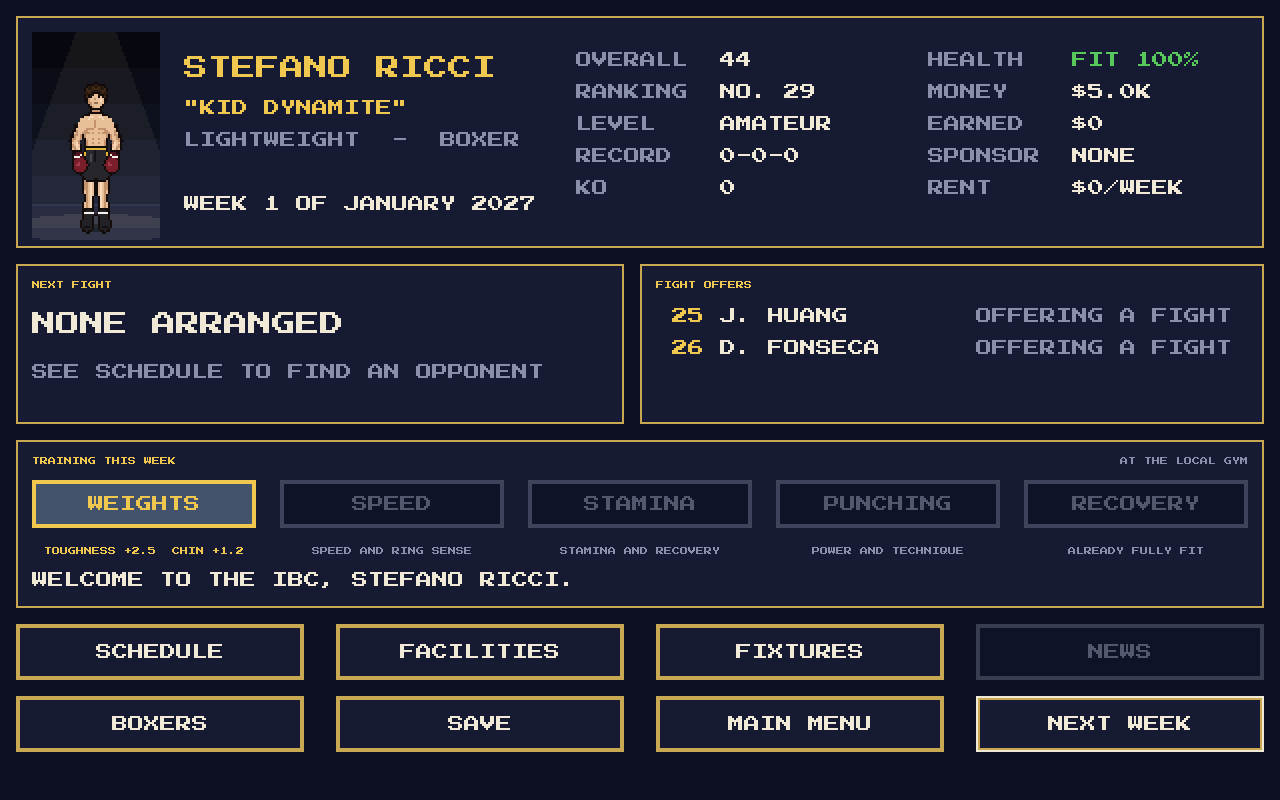
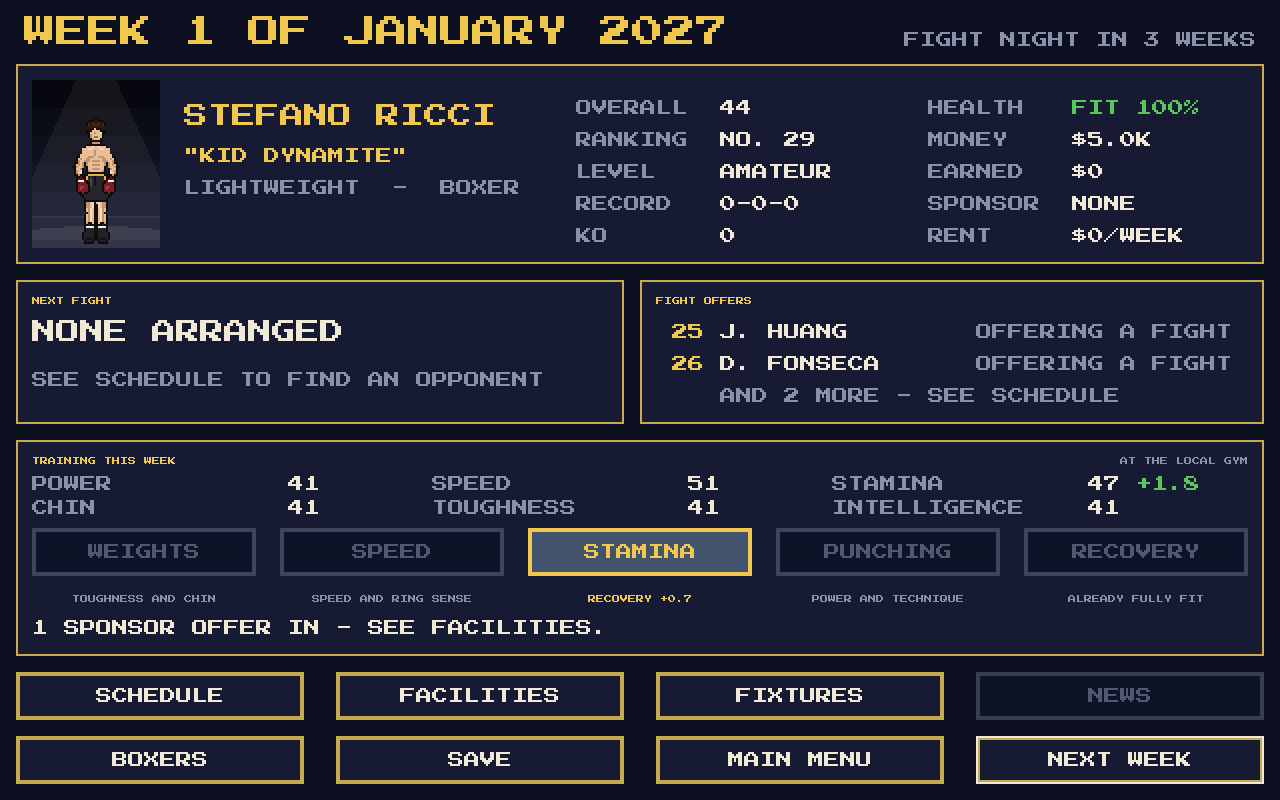
0.1.36: Career page - large date line and the boxer's skills
Claude-Session: https://claude.ai/code/session_01PF6KKrB4uHprcLjw7ppdzy

diff --git a/README.md b/README.md
@@ -458,9 +458,12 @@ the bank. The career is saved straight away, at the end of every month and
 when leaving for the main menu (SAVE saves it any time). Saves live in
 `user://careers/`; **CONTINUE SAVED CAREER** lists them, newest first.
 
-**The career page** shows the boxer and his overall rating, ranking,
-level, record, health, money, earnings, sponsor and the week's rent, his
-next fight, the men offering him a fight, and the latest news. Time moves
+**The career page** has the date across the top in large letters (WEEK 2
+OF JANUARY 2027, with the weeks to fight night on the right, or FIGHT
+NIGHT in the month's last week), then the boxer and his overall rating,
+ranking, level, record, health, money, earnings, sponsor and the week's
+rent, his next fight, the men offering him a fight, his six skills (with
+what this week's training added in green), and the latest news. Time moves
 a **week** at a time (NEXT WEEK), four weeks to a month:
 
 * **Training**: once a week choose WEIGHTS (toughness, some chin), SPEED
@@ -763,6 +766,8 @@ Command-line options read by the game (after `--`):
 | `--manage=<0\|1>`          | A fight scene: the player is in the red (0) or blue (1) corner - orders between rounds, shouts during them                                                                                            |
 | `--train=<0-4>`            | Career screens: the boxer trains that session this week (4 = RECOVERY)                                                                                                                                 |
 | `--offers=<n>`             | Career screens: the first n men he could fight are offering him a fight                                                                                                                                |
+| `--week=<0-3>`             | Career screens: the week of the month (3 = fight night)                                                                                                                                                |
+| `--booked`                 | Career screens: he has a fight booked with the first man he could fight                                                                                                                                |
 | `--career=<path>`          | Load a saved career (e.g. `user://careers/career_1.tres`); a fight scene shows his next fight                                                                                                           |
 | `--wait=<seconds>`         | Real seconds to wait before the shot (e.g. mid read-out)                                                                                                                                               |
 | `--at=<seconds>`           | Earliest real second of round 1 to capture (default 20)                                                                                                                                                |

diff --git a/TODO.md b/TODO.md
@@ -7,8 +7,8 @@ Effort: **XS** under an hour, **S** a few hours, **M** about a day,
 
 | #  | Item | Effort | Notes |
 |----|------|--------|-------|
-| 1  | Show the boxer's skills (power, speed, stamina, chin, strength, intelligence) on the career page | S | The header is full: either a compact skills strip under it or a SKILLS panel, with this week's training gains shown against them. |
-| 2  | Make the current week and month clearer on the career page | XS | Move "WEEK 1 OF JANUARY 2027" to a large line at the top of the page (and show "FIGHT NIGHT" there in the last week). |
+| 1  | ~~Show the boxer's skills (power, speed, stamina, chin, strength, intelligence) on the career page~~ | S | **Done in 0.1.36.** The header is full: either a compact skills strip under it or a SKILLS panel, with this week's training gains shown against them. |
+| 2  | ~~Make the current week and month clearer on the career page~~ | XS | **Done in 0.1.36.** Move "WEEK 1 OF JANUARY 2027" to a large line at the top of the page (and show "FIGHT NIGHT" there in the last week). |
 | 3  | Choose height and weight on the new boxer screen | S | < > pickers kept inside his division's range. Height changes reach (longer jab, harder to get inside); weight could nudge power against speed. |
 
 ## Left over from earlier

diff --git a/CHANGELOG.md b/CHANGELOG.md
@@ -4,6 +4,20 @@ Every build bumps the last number of the version while the game is a
 prototype. The version lives in `project.godot` (`application/config/version`)
 and is shown on the main menu.
 
+## 0.1.36
+
+* Career page: the date is now a large line across the top (WEEK 2 OF
+  JANUARY 2027), with the weeks to fight night on the right - and FIGHT
+  NIGHT itself in the last week of the month. (TODO 2)
+* Career page: his six skills are shown at the top of the training panel,
+  three to a row, with what this week's session added beside each one in
+  green. The caption under the chosen session now only shows what the
+  strip can't (RECOVERY +0.7, HEALTH +12%), so it no longer runs over.
+  (TODO 1)
+* Career page: the next fight's date line no longer shrinks to fit
+  ("MARCH 2027 - 6 ROUNDS - $593"; was "END OF MARCH 2027 ...").
+* The menu buttons are a little shorter (48 px) to make room.
+
 ## 0.1.35
 
 * The STRENGTH skill is now shown as TOUGHNESS everywhere on screen (new
